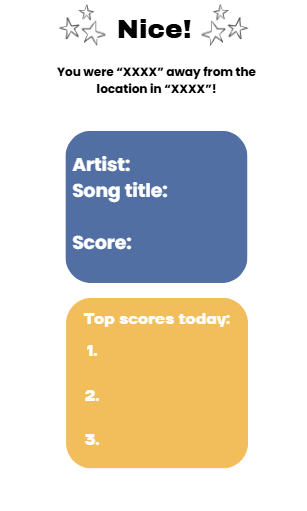
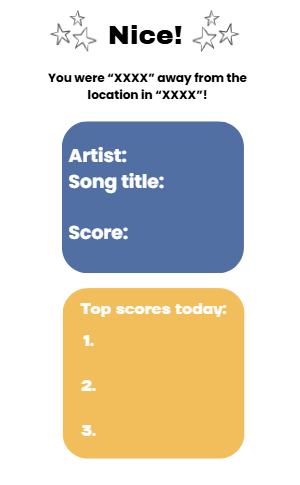
final commit before submission 1

Changed region(s): [[0.18, 0.2474, 0.84, 0.9588], [0.15, 0.0, 0.84, 0.2165], [0.27, 0.7423, 0.33, 0.8041]]

diff --git a/README.md b/README.md
@@ -73,7 +73,7 @@ I am going to use the required technologies in the following ways:
 
 - **CSS** - CSS will be used for my color scheme to make sure that it is cohesive and pleasing too look at. Additionally, this is where I will make sure that the application looks good on different screen sizes.
 
-- **React** - React will be used with my live score display. This will update the user interface instantly without needing to be refreshed. Also, this will be used for the audio player and the map where you submit a guess. 
+- **React** - React will be used with my live score display. This will update the user interface instantly without needing to be refreshed. Also, this will be used for changing between the login page, gameplay page, and the result page.  
 
 - **Service** - There will be backend service with endpoints for:
     - User authentication
@@ -81,13 +81,13 @@ I am going to use the required technologies in the following ways:
     - Submitting a guess
     - Calculating the score based on distance from the actual location of the song
 
-- **DB/Login** - DB/Login will be used to store user accounts, game history, and song data. 
+- **DB/Login** - DB/Login will be used to store user accounts, game history, and song data. The database data being displayed will come from the daily high score.
 
-- **WebSocket** - Websocket will help with the live leaderboard. It will instantly push real-time leaderboard updates. 
+- **WebSocket** - Websocket will help with the live leaderboard. Every time a player submits their guess, it will be instantly pushed to the real-time leaderboard. 
 
 - **3rd party API** - There will be multiple used for this application.
     - Leaflet.js - this will be for the map. (its free, unless I change my mind and use Google Maps JavaScript API)
-    - Deezery API - this is free and allows for 30-second audio previews.
+    - Deezer API - this is free and allows for 30-second audio previews.
 
 ## 🚀 Specification Deliverable
 
